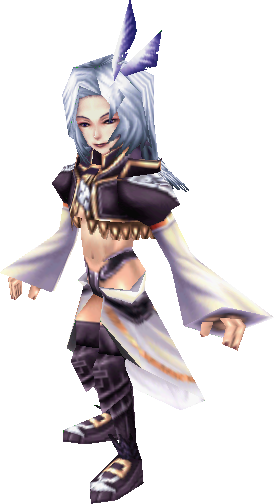
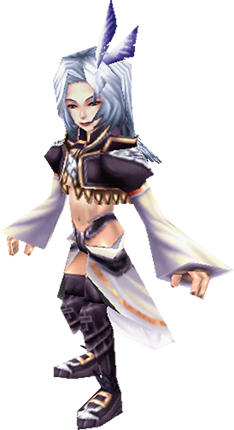
basic look added to game

diff --git a/index.html b/index.html
@@ -3,42 +3,55 @@
 <head>
 	<title>MY RPG GAME</title>
 	<link rel="stylesheet" href="https://maxcdn.bootstrapcdn.com/bootstrap/3.3.7/css/bootstrap.min.css" integrity="sha384-BVYiiSIFeK1dGmJRAkycuHAHRg32OmUcww7on3RYdg4Va+PmSTsz/K68vbdEjh4u" crossorigin="anonymous">
-</head>
+	<link rel="stylesheet" type="text/css" href="assets/css/style.css">
 <body>
 
 	<div class="container">
 		<div class="row">
 			<div class="col-md-12 text-center">
 				<h1>FINAL FANTASY RPG ADVENTURE</h1>
-				<h2>Choose your character to begin:</h2>
+				<h2>Choose your character to begin...</h2>
 			</div>
 		</div>
 		<div class="row">
-			<div class="col-md-6 text-center">
+			<div class="col-md-12 text-center">
 				<h2>Your character:</h2>
-				<div class="character-display">
+			</div>
+		</div>
+		<div class="row">
+			<div class="col-md-12 text-center">
+				<div class="character-display text-center">
+				<img class="player" id="zidane" src="assets/images/character1_zidane.png">
+				<img class="player" id="vivi" src="assets/images/character5_vivi.png">
+				<img class="player" id="beatrix" src="assets/images/character2_beatrix.png">
+				<img class="player" id="garnet" src="assets/images/character4_garnet.png">
+				<img class="player" id="kuja" src="assets/images/character3_kuja.png">
 				</div>
 			</div>
 		</div>
 		<div class="row">
-			<div class="col-md-6">
+			<div class="col-md-12 text-center">
 				<h2>Your chosen foe:</h2>
+			</div>
+		</div>
+		<div class="row">
+			<div class="col-md-12">
 				<div class ="chosen-foe">
 				</div>
 			</div>
 		</div>
 		<div class="row">
-			<div class="col-md-6">
+			<div class="col-md-12 text-center">
 				<h2>Your enemies:</h2>
+			</div>
+		</div>
+		<div class="row">
+			<div class="col-md-12 text-center">
 				<div class="enemies-display">
 				</div>
 			</div>
 		</div>
-		<div class="row">
-			<div class="col-md-6">
-
-			</div>
-		</div>
+		
 	</div>
 
 	<script src="https://code.jquery.com/jquery-3.2.1.min.js" integrity="sha256-hwg4gsxgFZhOsEEamdOYGBf13FyQuiTwlAQgxVSNgt4=" crossorigin="anonymous">

diff --git a/assets/css/style.css b/assets/css/style.css
@@ -1,0 +1,25 @@
+body {
+	background-image: url(../images/background2.jpg);
+	background-repeat: no-repeat;
+	background-attachment: fixed;
+	background-size: cover;
+	color: lightgray;
+}	
+
+.player {
+	width: 19%;
+	height: auto;
+}
+#kuja {
+	width: 17%;
+	height: auto;
+}
+
+#garnet {
+	width: 19%;
+	height: auto;
+}
+#beatrix {
+	width: 21%;
+	height: auto;
+}
